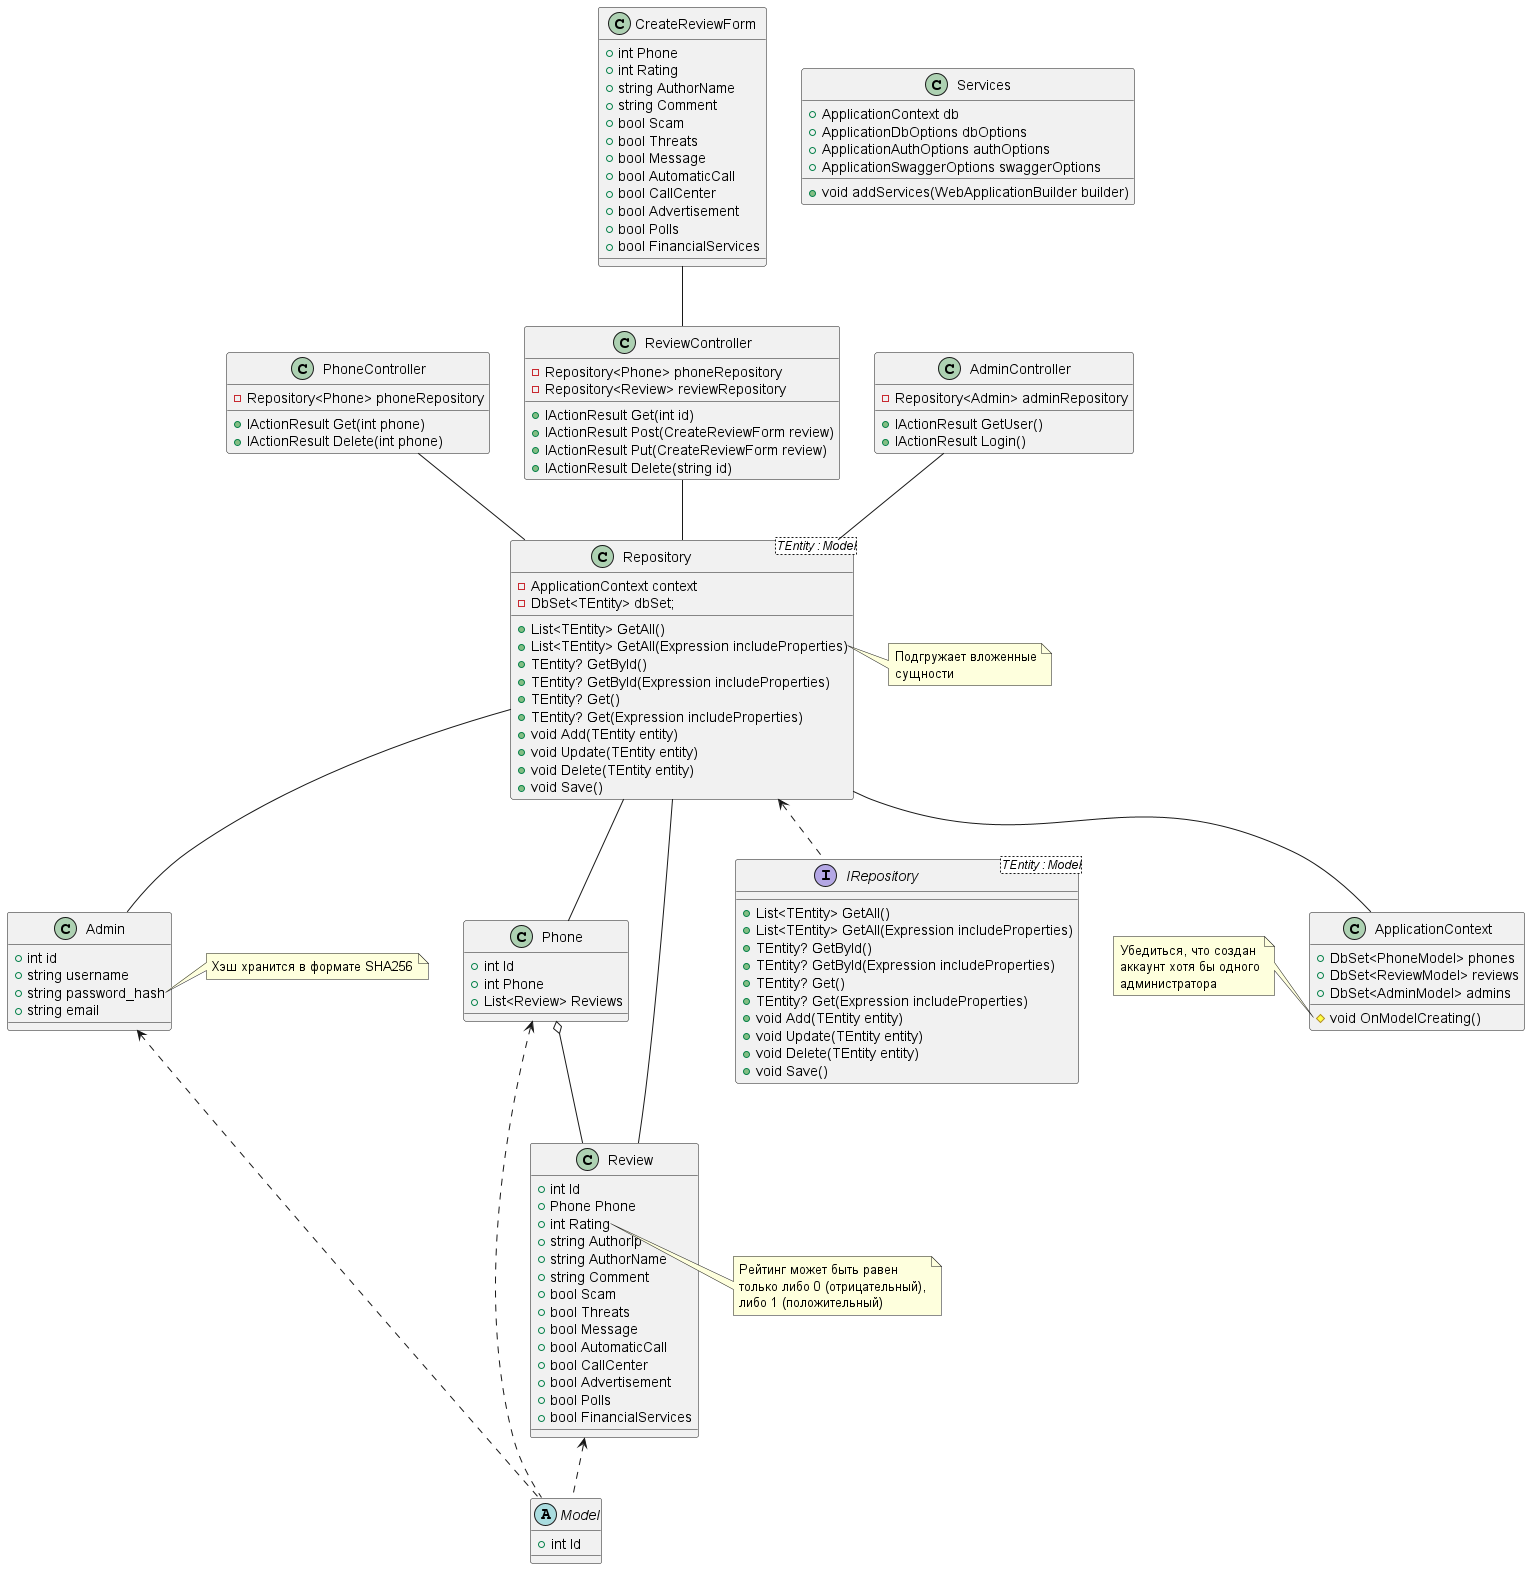
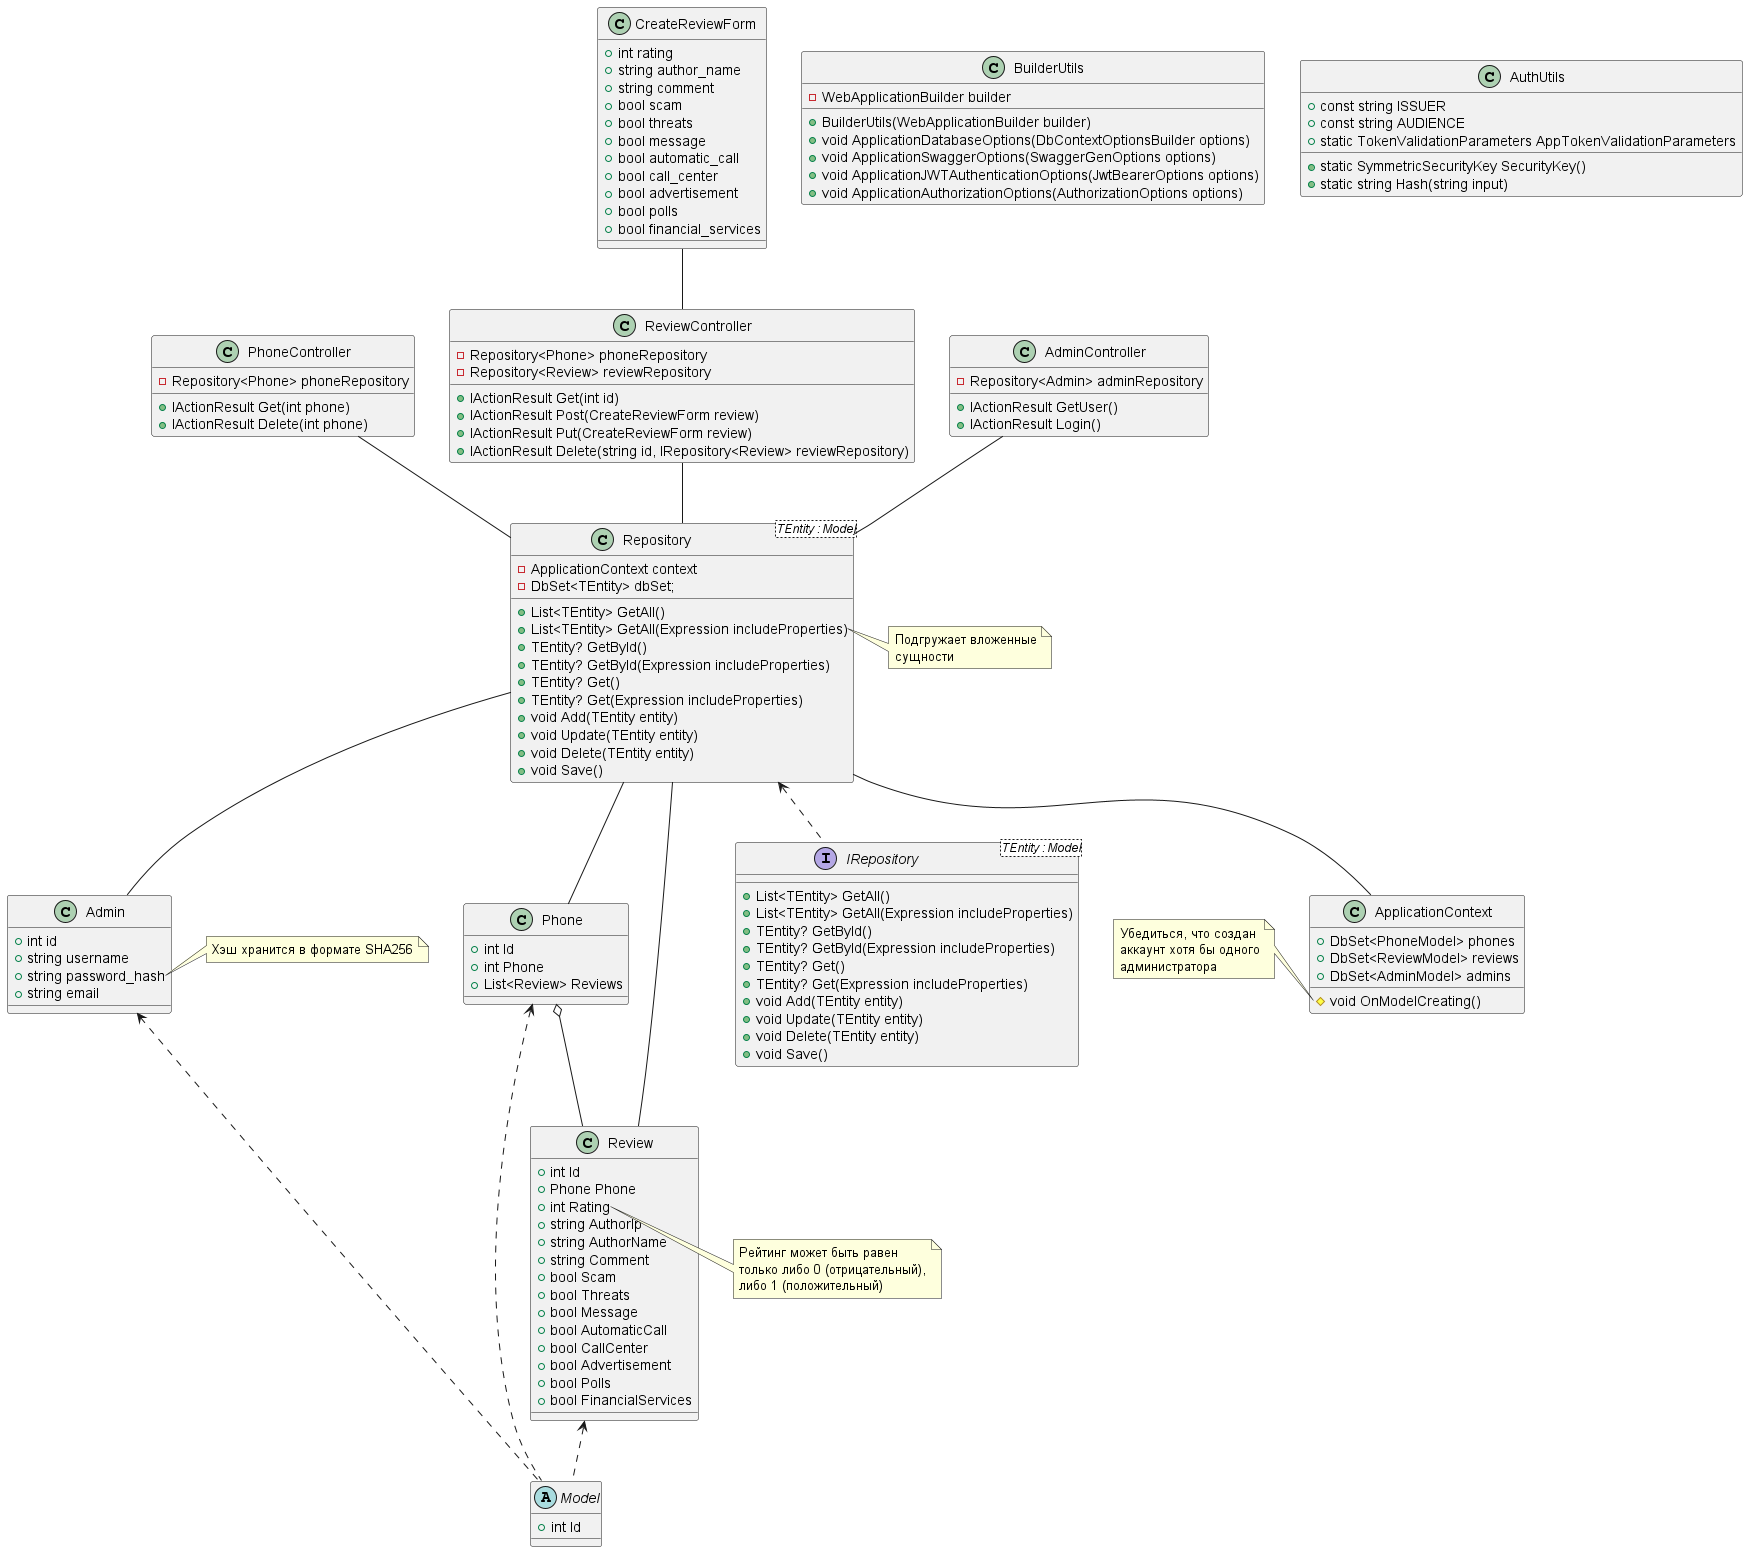
docker deploy + class diagram updated

diff --git a/src/Utils/BuilderUtils.cs b/src/Utils/BuilderUtils.cs
@@ -21,7 +21,7 @@ public class BuilderUtils
     {
         string? connectionString;
 
-        if (!builder.Environment.IsProduction())
+        if (!builder.Environment.IsProduction() && Environment.GetEnvironmentVariable("DB_CONNECTION_STRING") == null)
         {
             connectionString = builder.Configuration.GetConnectionString("Default");
         }

diff --git a/src/Utils/AuthUtils.cs b/src/Utils/AuthUtils.cs
@@ -1,9 +1,5 @@
-// TODO: ну сделать
-using System.IdentityModel.Tokens.Jwt;
-using System.Security.Claims;
 using System.Security.Cryptography;
 using System.Text;
-using Microsoft.EntityFrameworkCore.Metadata.Internal;
 using Microsoft.IdentityModel.Tokens;
 
 namespace GetPhone.Services;
